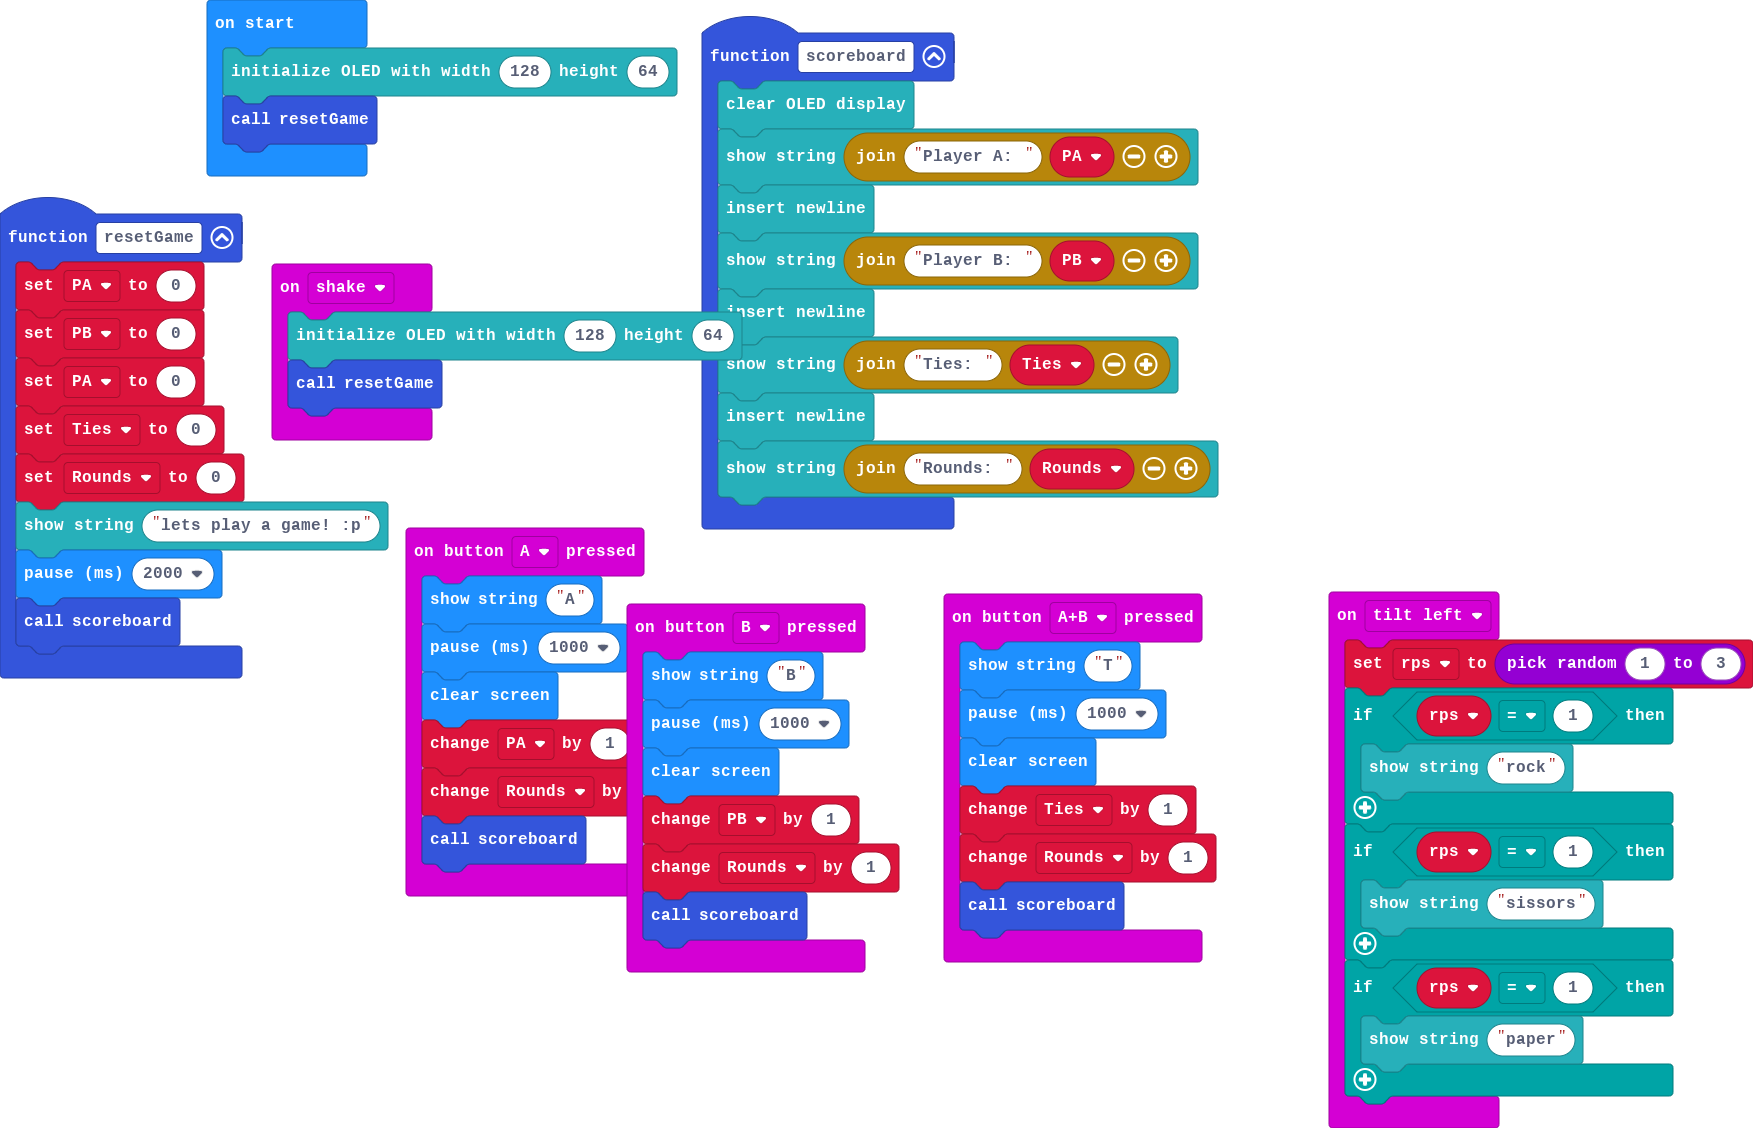
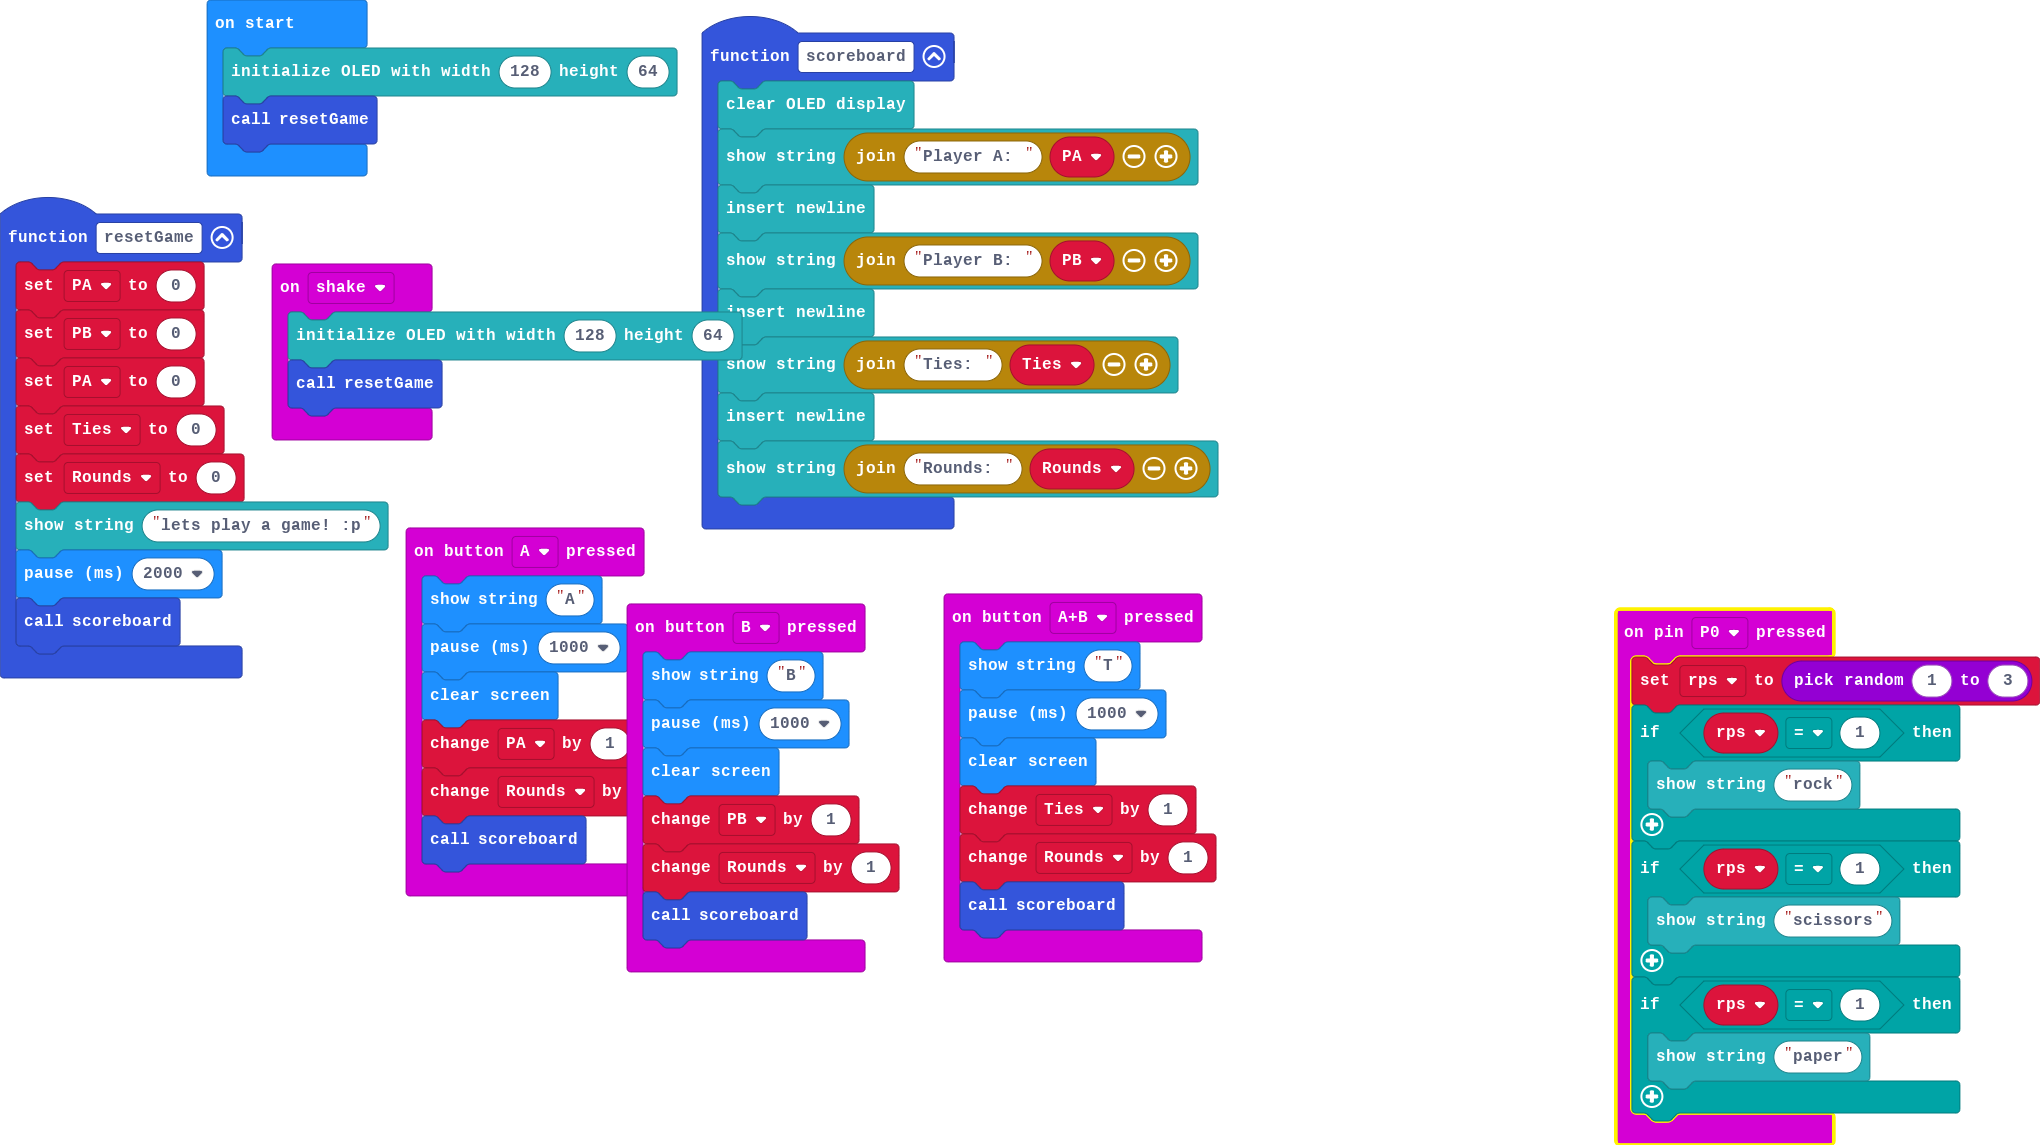
Update main.blocks, main.ts

diff --git a/main.ts b/main.ts
@@ -1,3 +1,15 @@
+input.onPinPressed(TouchPin.P0, function () {
+    rps = randint(1, 3)
+    if (rps == 1) {
+        OLED.writeStringNewLine("rock")
+    }
+    if (rps == 1) {
+        OLED.writeStringNewLine("scissors")
+    }
+    if (rps == 1) {
+        OLED.writeStringNewLine("paper")
+    }
+})
 function scoreboard () {
     OLED.clear()
     OLED.writeStringNewLine("Player A: " + PA)
@@ -26,18 +38,6 @@ input.onButtonPressed(Button.A, function () {
     Rounds += 1
     scoreboard()
 })
-input.onGesture(Gesture.TiltLeft, function () {
-    rps = randint(1, 3)
-    if (rps == 1) {
-        OLED.writeStringNewLine("rock")
-    }
-    if (rps == 1) {
-        OLED.writeStringNewLine("sissors")
-    }
-    if (rps == 1) {
-        OLED.writeStringNewLine("paper")
-    }
-})
 input.onButtonPressed(Button.AB, function () {
     basic.showString("T")
     basic.pause(1000)
@@ -58,10 +58,10 @@ input.onGesture(Gesture.Shake, function () {
     OLED.init(128, 64)
     resetGame()
 })
-let rps = 0
 let Rounds = 0
 let Ties = 0
 let PB = 0
 let PA = 0
+let rps = 0
 OLED.init(128, 64)
 resetGame()
